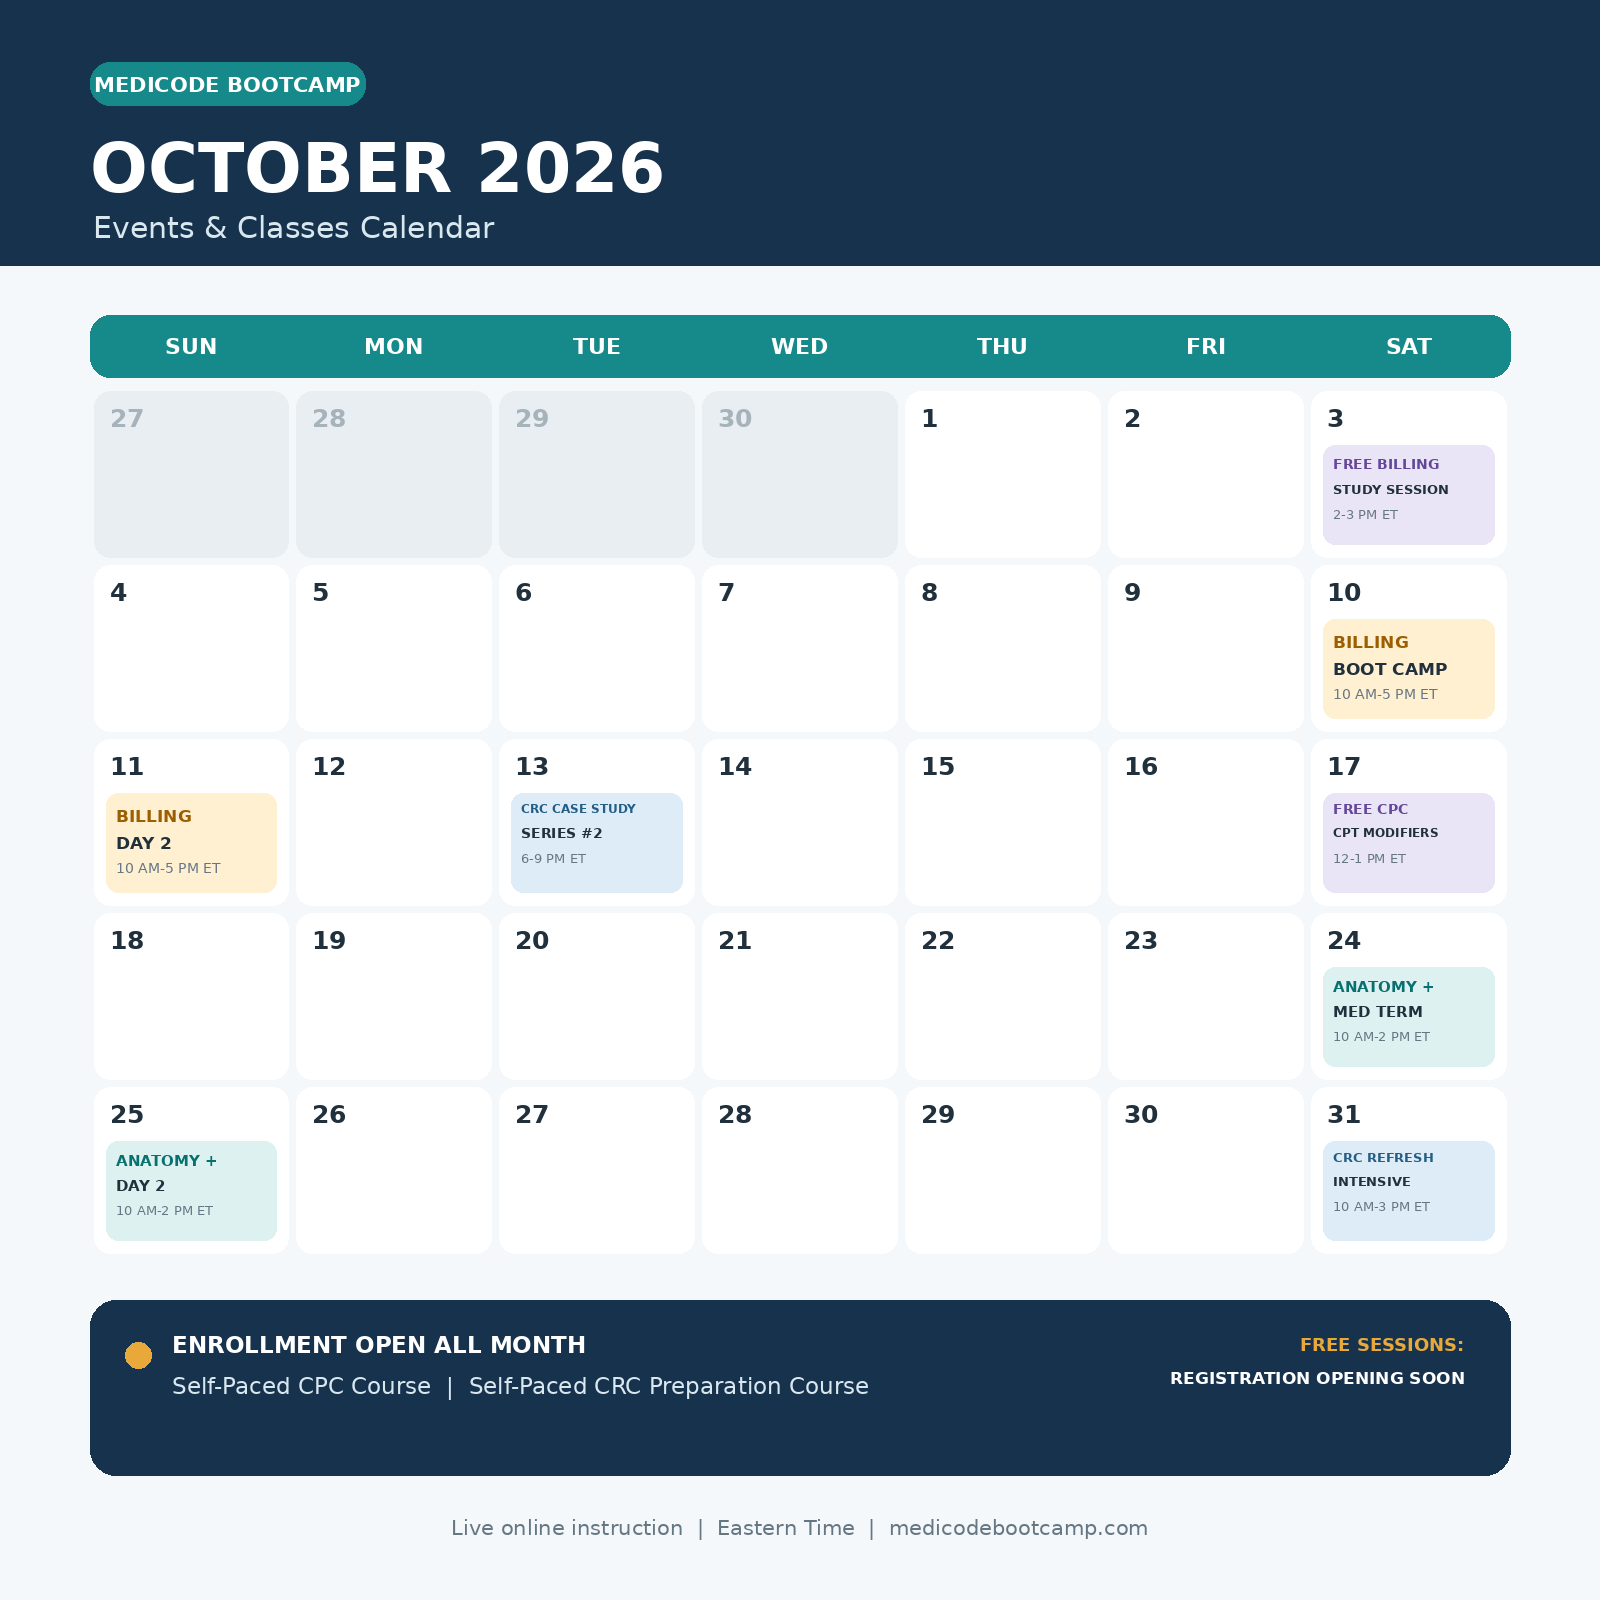
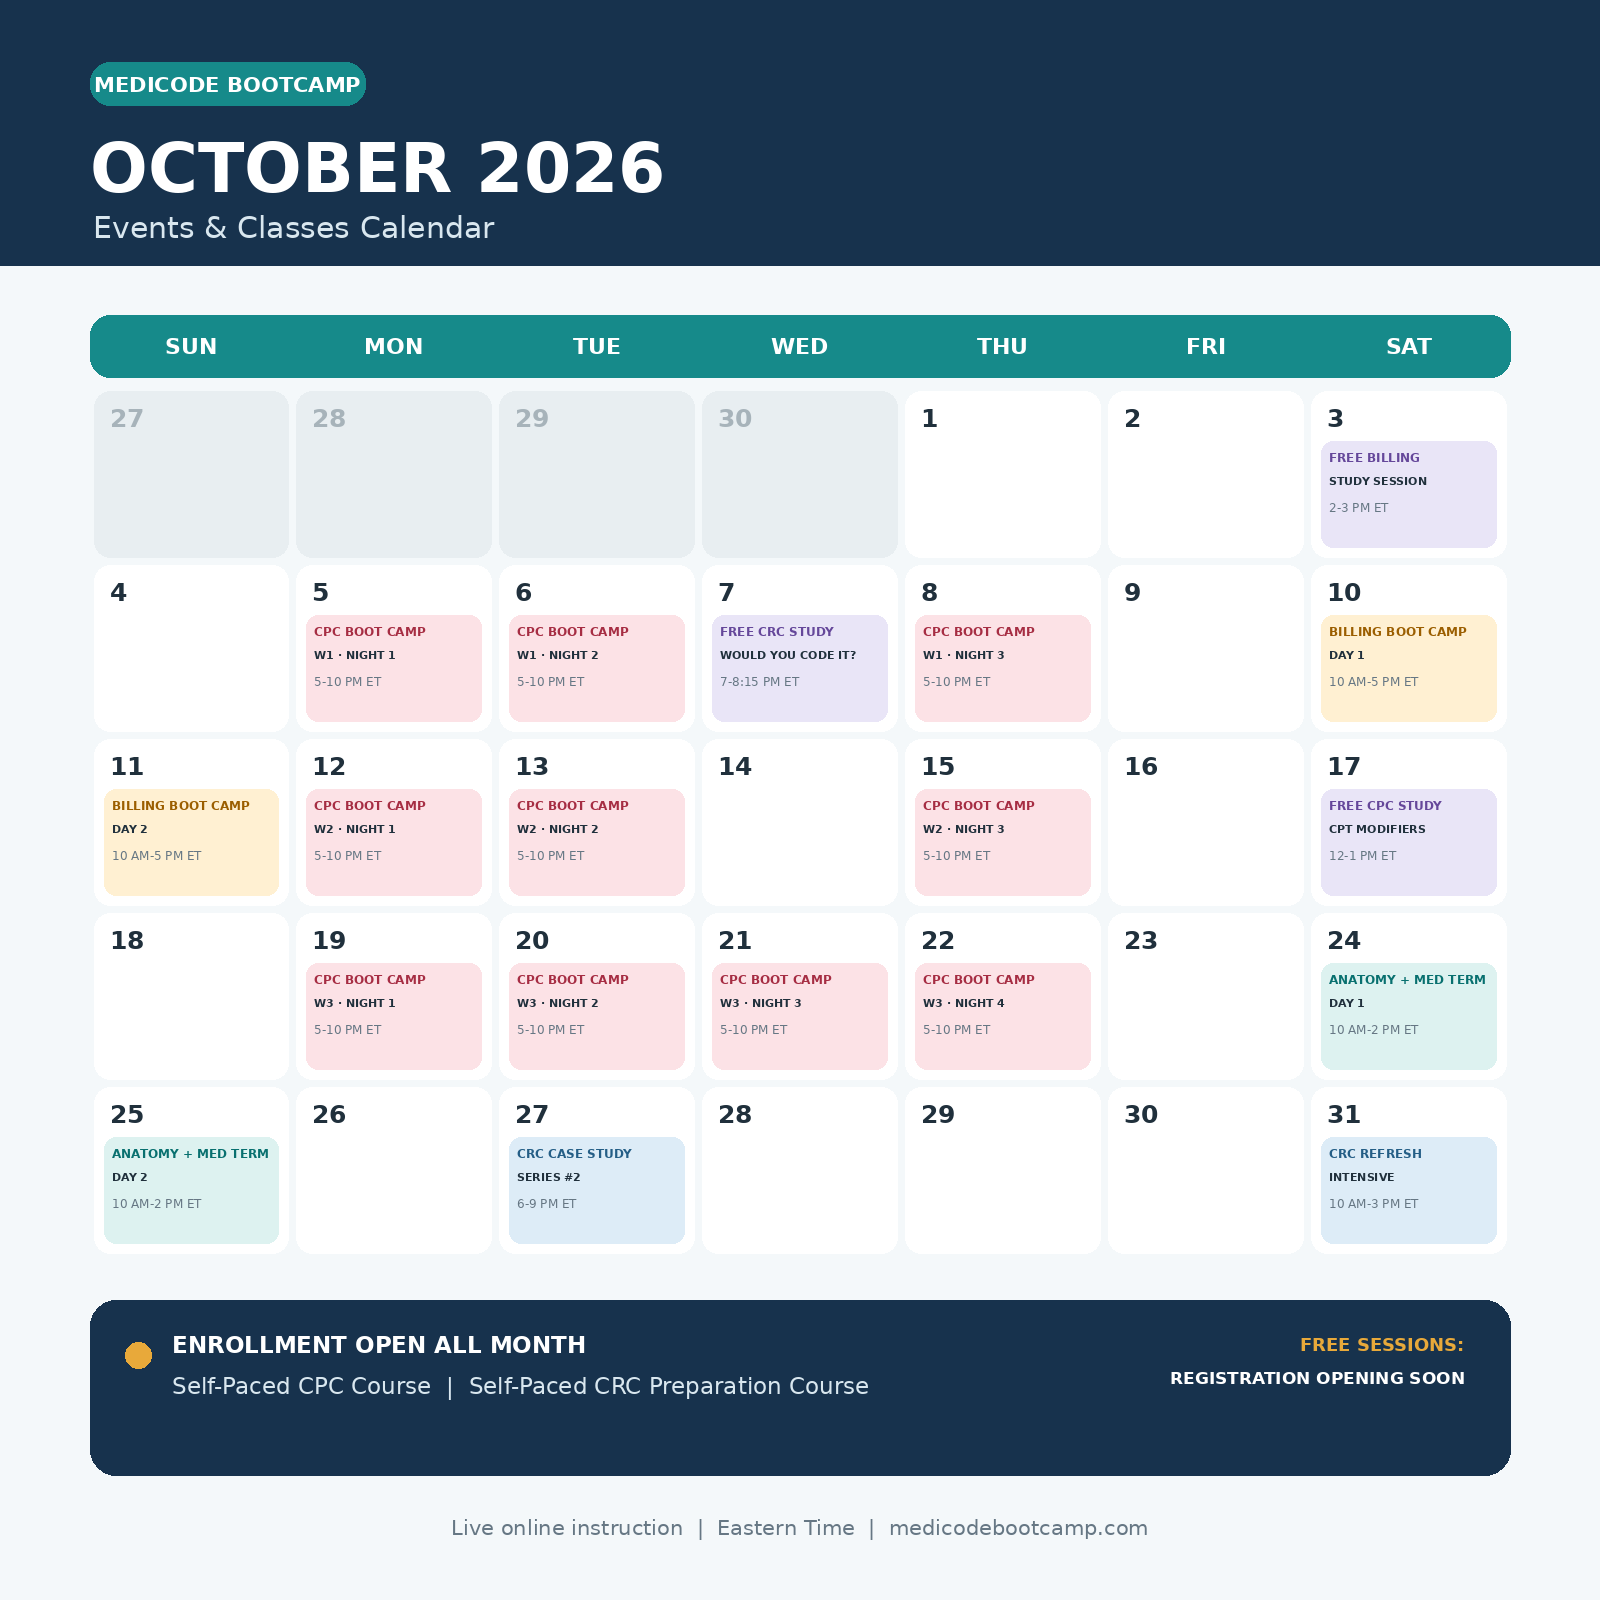
Complete October calendar and add CPC registration links

diff --git a/index.html b/index.html
@@ -35,7 +35,7 @@
 <main>
 <section class="section-soft"><div class="container"><div class="cta-band"><div><span class="eyebrow">Free Webinar Recording</span><h2>How to Start a Career in Medical Coding: A Beginner’s Roadmap</h2><p>Thinking about becoming a medical coder but not sure where to begin? Request the free beginner webinar recording and get a clear roadmap for the profession, CPC certification, training options, and your next steps.</p><div class="webinar-details">Beginner Friendly • About 1 Hour • Watch on Your Schedule • FREE</div></div><a class="btn" href="/how-to-start-medical-coding.html">Get the Free Recording</a></div></div></section>
 <section><div class="container"><div class="section-head"><span class="eyebrow">Free Beginner Resource</span><h2>How to Become a Medical Coder: A Beginner’s Guide</h2><p>If you are researching medical coding as a career, start with our step-by-step guide. Learn what medical coders do, whether you need a degree, what CPC certification is, which code sets you need to learn, and the steps to begin training for a medical coding career.</p></div><div class="program-card resource-card"><h3>Start with the medical coding career roadmap</h3><p>This free guide was created for complete beginners who want a clear explanation of the path from exploring medical coding to learning the fundamentals, preparing for certification, and developing practical coding skills.</p><a class="card-link" href="/how-to-become-a-medical-coder.html">Read the Beginner’s Guide →</a></div></div></section>
-<section class="section-soft" id="october-calendar"><div class="container"><div class="section-head"><span class="eyebrow">Upcoming Events</span><h2>October 2026 Events &amp; Classes Calendar</h2><p>See MediCode Bootcamp’s October live classes, free study sessions, CRC workshops, and enrollment opportunities in one place. Free-session registration links will be added when registration opens.</p></div><div class="calendar-card"><img src="/medicode-october-2026-calendar.png" alt="MediCode Bootcamp October 2026 calendar showing free study sessions, Medical Billing Boot Camp, CRC Case Study Series, Anatomy and Medical Terminology Boot Camp, and CRC Refresh Intensive" width="1600" height="1600" loading="lazy" /></div><div class="calendar-actions"><a class="btn btn-primary" href="/medicode-october-2026-calendar.pdf" target="_blank" rel="noopener">View Printable Calendar</a><a class="btn btn-outline" href="/free-study-sessions.html">Free Study Sessions</a></div></div></section>
+<section class="section-soft" id="october-calendar"><div class="container"><div class="section-head"><span class="eyebrow">Upcoming Events</span><h2>October 2026 Events &amp; Classes Calendar</h2><p>See MediCode Bootcamp’s October live classes, free study sessions, CRC workshops, and enrollment opportunities in one place. Free-session registration links will be added when registration opens.</p></div><div class="calendar-card"><img src="/medicode-october-2026-calendar.png" alt="MediCode Bootcamp October 2026 calendar showing the full three-week CPC Boot Camp, free CPC, CRC and billing study sessions, Medical Billing Boot Camp, CRC Case Study Series, Anatomy and Medical Terminology Boot Camp, and CRC Refresh Intensive" width="1600" height="1600" loading="lazy" /></div><div class="calendar-actions"><a class="btn btn-primary" href="https://tally.so/r/PdZ20b" target="_blank" rel="noopener">Register for the CPC Boot Camp</a><a class="btn btn-outline" href="/cpc-certification-bootcamp.html">CPC Boot Camp Details</a><a class="btn btn-outline" href="/medicode-october-2026-calendar.pdf" target="_blank" rel="noopener">View Printable Calendar</a><a class="btn btn-outline" href="/free-study-sessions.html">Free Study Sessions</a></div></div></section>
 <section id="programs" class="section-soft"><div class="container"><div class="section-head"><span class="eyebrow">Courses & services</span><h2>Explore MediCode Bootcamp programs</h2></div><div class="program-grid">
 <article class="program-card"><span class="tag">Certification</span><h3>CPC Certification Boot Camp</h3><p>Beginner-friendly live medical coding education designed to build foundational knowledge and prepare students to work toward CPC certification.</p><a class="card-link" href="/cpc-certification-bootcamp.html">View CPC Boot Camp →</a></article>
 <article class="program-card"><span class="tag">Self-paced certification</span><h3>CPC Self-Study Course With Instructor Support</h3><p>Start anytime and study at your own pace with 12 months of course access, Codify access, and weekly online instructor meetings for the full 12 months.</p><a class="card-link" href="/self-paced-cpc-course-instructor-support.html">View Self-Paced CPC Course →</a></article>
